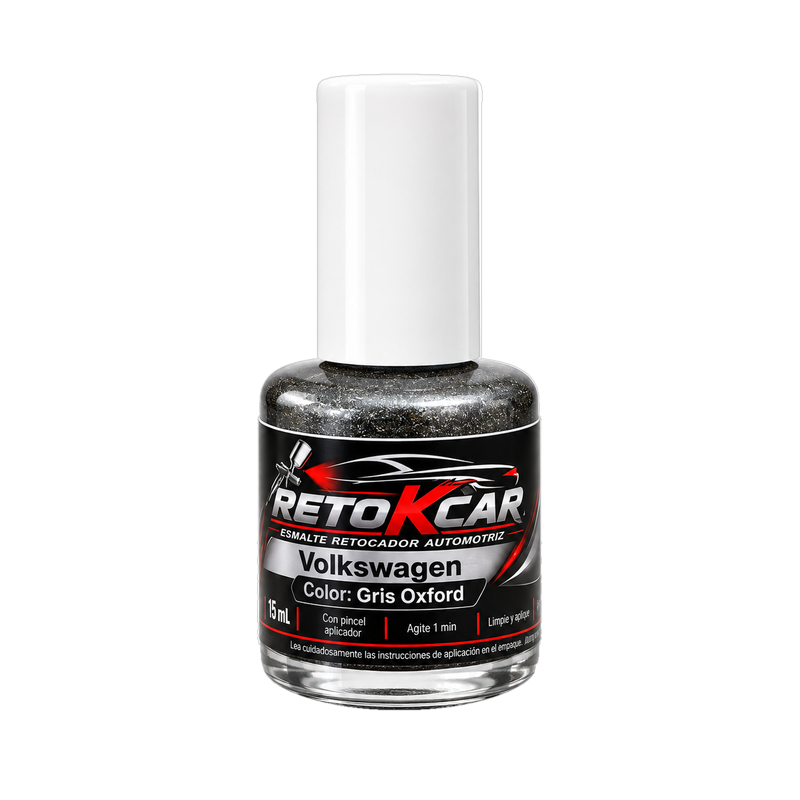
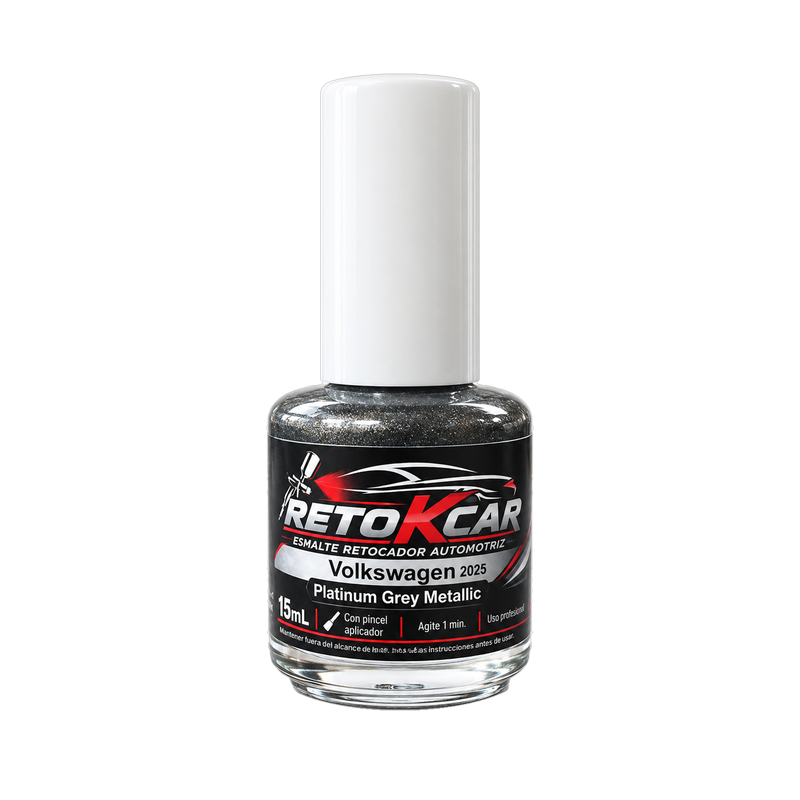
RetoKcar: Tesla Steel Grey, Mazda Red Soul Crystal y fotos nuevas de 5 colores
Diego mandó 8 fotos de RetoKcar con la etiqueta 2025: "Todos a $199
menos el mazda rojo ese es de $499".

- Nuevos: Tesla Steel Grey (PMNG, VS7) a $199 con los precios de
  RetoKcar, y Mazda Red Soul Crystal (46V, VS5) a $499; de este último
  no hay costo ni mayoreo, así que valen $499 hasta que Diego los dé.
- Foto nueva para VW Platinum Grey Metallic, Mazda Machine Gray,
  Nissan Force Red, Honda Modern Steel y Hyundai, cuya etiqueta dice
  Titan Gray: ese retocador toma el nombre de la página (Titan Grey,
  R4G, VS7); el inventario decía R4J y se sigue encontrando así.
- Las fotos del cotizador van a Cloudinary con public id nuevo (-v2)
  para no reemplazar las anteriores; los PNG del kit se recortaron
  igual que los demás y kitVolumenMl los deja de la misma altura.
- Mazda Machine Gray se queda en $299.

Claude-Session: https://claude.ai/code/session_01J8dYubPDQAzJzzmrxzVtMv

Changed region(s): [[0.3125, 0.0938, 0.6875, 0.9062], [0.375, 0.125, 0.4062, 0.1562]]

diff --git a/src/PedidoTabla.jsx b/src/PedidoTabla.jsx
@@ -1484,7 +1484,7 @@ const productCatalog = [
     mayoreo: 102.00,
     mostrador: 199.00,
     digital: 199.00,
-    image: "https://res.cloudinary.com/dl2s0vpwb/image/upload/f_auto,q_auto,w_400/retokcar/retokcar-honda-gris-oxford-15ml",
+    image: "https://res.cloudinary.com/dl2s0vpwb/image/upload/f_auto,q_auto,w_400/retokcar/retokcar-honda-gris-oxford-15ml-v2",
     kitImage: "/assets/retokcar/productos/retokcar-honda-gris-oxford-15ml.png",
   },
   {
@@ -1529,10 +1529,7 @@ const productCatalog = [
     mayoreo: 102.00,
     mostrador: 199.00,
     digital: 199.00,
-    image: "https://res.cloudinary.com/dl2s0vpwb/image/upload/f_auto,q_auto,w_400/retokcar/retokcar-nissan-rojo-15ml",
-    // La foto sale un poco más angosta que la de los demás
-    // retoques; con esto el kit lo dibuja de la misma altura.
-    kitVolumenMl: 14.6,
+    image: "https://res.cloudinary.com/dl2s0vpwb/image/upload/f_auto,q_auto,w_400/retokcar/retokcar-nissan-rojo-15ml-v2",
     kitImage: "/assets/retokcar/productos/retokcar-nissan-rojo-15ml.png",
   },
   {
@@ -1616,18 +1613,20 @@ const productCatalog = [
   {
     id: "retokcar-hyundai-gris-oxford-15ml",
     brand: "RetoKcar",
-    product: "ESMALTE RETOCADOR HYUNDAI GRIS OXFORD",
+    product: "ESMALTE RETOCADOR HYUNDAI TITAN GREY (GRIS OXFORD)",
     category: "RetoKcar",
-    description: "FRASCO 15 ML CON PINCEL · CÓDIGO R4J",
+    // El inventario dice R4J; en la página de colores Titan Grey es R4G.
+    description: "FRASCO 15 ML CON PINCEL · CÓDIGO R4G · REF. VS7",
+    busqueda: "ESMALTE RETOCADOR HYUNDAI GRIS OXFORD R4J",
     price: 56.00,
     unitPrice: 56.00,
     mayoreo: 102.00,
     mostrador: 199.00,
     digital: 199.00,
-    image: "https://res.cloudinary.com/dl2s0vpwb/image/upload/f_auto,q_auto,w_400/retokcar/retokcar-hyundai-gris-oxford-15ml",
+    image: "https://res.cloudinary.com/dl2s0vpwb/image/upload/f_auto,q_auto,w_400/retokcar/retokcar-hyundai-gris-oxford-15ml-v2",
     // La foto sale un poco más ancha que la de los demás
     // retoques; con esto el kit lo dibuja de la misma altura.
-    kitVolumenMl: 16.6,
+    kitVolumenMl: 16.5,
     kitImage: "/assets/retokcar/productos/retokcar-hyundai-gris-oxford-15ml.png",
   },
   {
@@ -1770,10 +1769,10 @@ const productCatalog = [
     // Este color sale más caro que los demás retocadores.
     mostrador: 299.00,
     digital: 299.00,
-    image: "https://res.cloudinary.com/dl2s0vpwb/image/upload/f_auto,q_auto,w_400/retokcar/retokcar-mazda-gris-oxford-15ml",
+    image: "https://res.cloudinary.com/dl2s0vpwb/image/upload/f_auto,q_auto,w_400/retokcar/retokcar-mazda-gris-oxford-15ml-v2",
     // La foto sale un poco más ancha que la de los demás
     // retoques; con esto el kit lo dibuja de la misma altura.
-    kitVolumenMl: 15.8,
+    kitVolumenMl: 15.3,
     kitImage: "/assets/retokcar/productos/retokcar-mazda-gris-oxford-15ml.png",
   },
   {
@@ -1790,6 +1789,22 @@ const productCatalog = [
     digital: 199.00,
     image: "https://res.cloudinary.com/dl2s0vpwb/image/upload/f_auto,q_auto,w_400/retokcar/retokcar-mazda-gris-nardo-polymetal-15ml",
     kitImage: "/assets/retokcar/productos/retokcar-mazda-gris-nardo-polymetal-15ml.png",
+  },
+  {
+    id: "retokcar-mazda-rojo-15ml",
+    brand: "RetoKcar",
+    product: "ESMALTE RETOCADOR MAZDA RED SOUL CRYSTAL (ROJO)",
+    category: "RetoKcar",
+    description: "FRASCO 15 ML CON PINCEL · CÓDIGO 46V · REF. VS5",
+    // El retocador más caro: $499. Sin costo ni mayoreo de Diego todavía;
+    // mientras tanto valen lo mismo que el precio público.
+    price: 499.00,
+    unitPrice: 499.00,
+    mayoreo: 499.00,
+    mostrador: 499.00,
+    digital: 499.00,
+    image: "https://res.cloudinary.com/dl2s0vpwb/image/upload/f_auto,q_auto,w_400/retokcar/retokcar-mazda-rojo-15ml",
+    kitImage: "/assets/retokcar/productos/retokcar-mazda-rojo-15ml.png",
   },
   // Sin código: el de su renglón del inventario (2Z2Z) sale en la página
   // como Oro Shakir, no como Gris Nardo. Falta que Diego lo confirme.
@@ -1855,10 +1870,10 @@ const productCatalog = [
     mayoreo: 102.00,
     mostrador: 199.00,
     digital: 199.00,
-    image: "https://res.cloudinary.com/dl2s0vpwb/image/upload/f_auto,q_auto,w_400/retokcar/retokcar-volkswagen-gris-oxford-15ml",
-    // La foto sale un poco más ancha que la de los demás
+    image: "https://res.cloudinary.com/dl2s0vpwb/image/upload/f_auto,q_auto,w_400/retokcar/retokcar-volkswagen-gris-oxford-15ml-v2",
+    // La foto sale un poco más angosta que la de los demás
     // retoques; con esto el kit lo dibuja de la misma altura.
-    kitVolumenMl: 16.8,
+    kitVolumenMl: 14.7,
     kitImage: "/assets/retokcar/productos/retokcar-volkswagen-gris-oxford-15ml.png",
   },
   {
@@ -1940,6 +1955,23 @@ const productCatalog = [
     digital: 199.00,
     image: "https://res.cloudinary.com/dl2s0vpwb/image/upload/f_auto,q_auto,w_400/retokcar/retokcar-byd-mercury-blue-15ml",
     kitImage: "/assets/retokcar/productos/retokcar-byd-mercury-blue-15ml.png",
+  },
+  {
+    id: "retokcar-tesla-steel-grey-15ml",
+    brand: "RetoKcar",
+    product: "ESMALTE RETOCADOR TESLA STEEL GREY (GRIS OXFORD)",
+    category: "RetoKcar",
+    description: "FRASCO 15 ML CON PINCEL · CÓDIGO PMNG · REF. VS7",
+    price: 56.00,
+    unitPrice: 56.00,
+    mayoreo: 102.00,
+    mostrador: 199.00,
+    digital: 199.00,
+    image: "https://res.cloudinary.com/dl2s0vpwb/image/upload/f_auto,q_auto,w_400/retokcar/retokcar-tesla-steel-grey-15ml",
+    // La foto sale un poco más ancha que la de los demás
+    // retoques; con esto el kit lo dibuja de la misma altura.
+    kitVolumenMl: 15.9,
+    kitImage: "/assets/retokcar/productos/retokcar-tesla-steel-grey-15ml.png",
   },
   // Dúos: dos retocadores del mismo color (base y perla) que se venden
   // juntos. Costo y Mayoreo son el doble de los de un retocador. La foto
